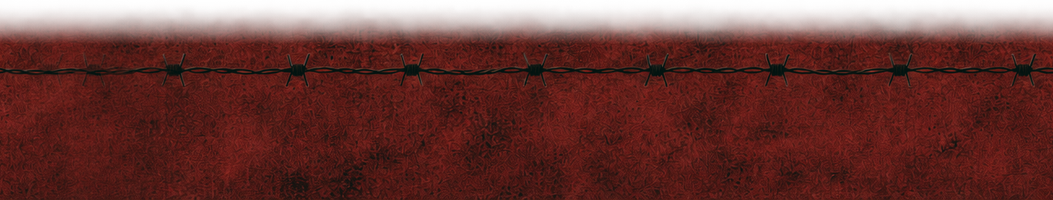
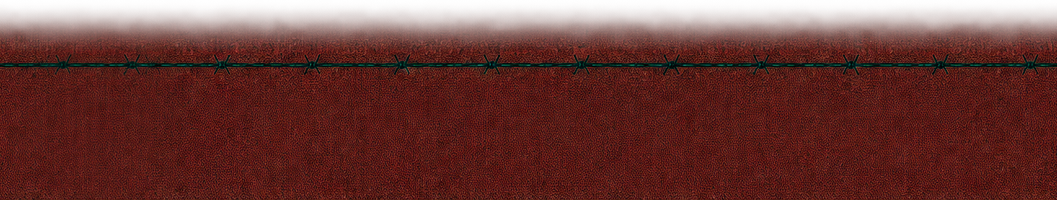
Redo Scene 01 coins and floor to match the mockup
Second Codex pass: coins now have the mockup's wide rim, dark groove,
faint center and heavy speckle, with larger blood blotches; the floor
uses fine uniform grain. Images are color-matched to the mockup and
the floor CSS filter is no longer needed. Generated sources, prompts
and the processing script live in docs/ref/images/assets/codex/.

Claude-Session: https://claude.ai/code/session_01JZURLaa2irNx7iWtkioFFh

diff --git a/docs/ref/images/assets/codex/process.py b/docs/ref/images/assets/codex/process.py
@@ -1,0 +1,94 @@
+"""Codex 생성 원본 → public/img (시안 색에 맞춤, 동전 4종씩 잘라 160px, 바닥은 이음매 없이).
+저장소 루트에서 실행: python3 docs/ref/images/assets/codex/process.py
+"""
+from PIL import Image, ImageOps
+import numpy as np
+
+G = 'docs/ref/images/assets/codex/'   # Codex 생성 원본
+O = 'public/img/'
+A = 'docs/ref/images/assets/'
+
+
+def match(arr, src_mean, dst_mean, mask):
+    """Per-channel linear gain so the masked mean moves from src_mean to dst_mean."""
+    out = arr.astype(np.float32)
+    for c in range(3):
+        out[..., c] *= dst_mean[c] / src_mean[c]
+    return np.clip(out, 0, 255)
+
+
+def masked_mean(rgb, mask):
+    return [float(rgb[..., c][mask].mean()) for c in range(3)]
+
+
+# ---- coins: 2x2 sheets -> 4 coins each, color matched to mockup coin mean (160,119,52)
+MOCK_COIN = (160, 119, 52)
+gold = np.array(Image.open(G + 'coin-gold.png').convert('RGBA'))
+gm = (gold[..., 3] > 200) & (gold[..., 0] > 90) & (gold[..., 0] > gold[..., 2] + 30)
+gain_src = masked_mean(gold[..., :3], gm)
+print('gold mean before', [round(x) for x in gain_src])
+
+for name in ('coin-gold', 'coin-blood'):
+    im = np.array(Image.open(G + '' + name + '.png').convert('RGBA'))
+    rgb = match(im[..., :3], gain_src, MOCK_COIN, None)
+    im = np.dstack([rgb.astype(np.uint8), im[..., 3]])
+    sheet = Image.fromarray(im, 'RGBA')
+    h = sheet.width // 2
+    for i, (cx, cy) in enumerate(((0, 0), (h, 0), (0, h), (h, h))):
+        if name == 'coin-blood' and i not in (0, 3):
+            continue   # 핏자국 금화는 1·4번만 쓴다 (s01.js COIN_SRC)
+        c = sheet.crop((cx, cy, cx + h, cy + h))
+        a = c.getchannel('A').point(lambda v: 255 if v > 24 else 0)
+        c = c.crop(a.getbbox())
+        s = max(c.size)
+        sq = Image.new('RGBA', (s, s))
+        sq.paste(c, ((s - c.width) // 2, (s - c.height) // 2))
+        sq.resize((160, 160), Image.LANCZOS).save('%ss01/%s-%d.png' % (O, name, i + 1), optimize=True)
+
+# ---- background: match mockup empty-area mean (21,17,16)
+bg = np.array(Image.open(G + 'bg.png').convert('RGB'))
+center = np.zeros(bg.shape[:2], bool)
+center[300:800, 1300:1500] = True
+bg = match(bg, masked_mean(bg, center), (21, 17, 16), None).astype(np.uint8)
+Image.fromarray(bg).save(O + 'bg.jpg', quality=82, optimize=True, progressive=True)
+
+# ---- floor: keep painted strip, match mockup floor mean (83,26,21) with offset for G/B, seamless tile
+f = np.array(Image.open(G + 'floor.png').convert('RGBA')).astype(np.float32)
+alpha = f[..., 3]
+rows = np.where(alpha.mean(axis=1) > 8)[0]
+top = max(0, rows.min() - 10)
+f = f[top:]
+solid = f[..., 3] > 240
+mean = [float(f[..., c][solid].mean()) for c in range(3)]
+target = (83, 26, 21)
+f[..., 0] *= target[0] / mean[0]
+f[..., 1] += target[1] - mean[1]
+f[..., 2] += target[2] - mean[2]
+f[..., :3] = np.clip(f[..., :3], 0, 255)
+fl = Image.fromarray(f.astype(np.uint8), 'RGBA')
+W, H = fl.size
+o = 240
+out = fl.crop((0, 0, W - o, H)).copy()
+mask = ImageOps.invert(Image.linear_gradient('L').rotate(90, expand=True)).resize((o, H))
+out.paste(Image.composite(fl.crop((W - o, 0, W, H)), fl.crop((0, 0, o, H)), mask), (0, 0))
+out = out.resize((out.width * 200 // H, 200), Image.LANCZOS)
+out.save(O + 'floor.png', optimize=True)
+print('floor strip', (W, H), '->', out.size)
+
+# ---- post: sharpen coins (speckle survives downscaling), boost floor grain contrast
+from PIL import ImageFilter, ImageEnhance
+import glob
+for p in glob.glob(O + 's01/coin-*.png'):
+    im = Image.open(p).convert('RGBA')
+    a = im.getchannel('A')
+    rgb = im.convert('RGB').filter(ImageFilter.UnsharpMask(radius=1.2, percent=140, threshold=1))
+    rgb = ImageEnhance.Contrast(rgb).enhance(1.15)
+    out = rgb.convert('RGBA'); out.putalpha(a); out.save(p, optimize=True)
+fl = np.array(Image.open(O + 'floor.png').convert('RGBA')).astype(np.float32)
+solid = fl[..., 3] > 200
+for c in range(3):
+    m = fl[..., c][solid].mean()
+    fl[..., c] = np.where(solid, m + (fl[..., c] - m) * 2.0, fl[..., c])
+fl[..., :3] = np.clip(fl[..., :3], 0, 255)
+Image.fromarray(fl.astype(np.uint8), 'RGBA').save(O + 'floor.png', optimize=True)
+print('post done')

diff --git a/docs/scenes/S01.md b/docs/scenes/S01.md
@@ -53,7 +53,8 @@
 
 ## 비주얼 (시안 기준)
 
-시안: `docs/ref/images/시안/` · 원본 소스 이미지(ChatGPT 생성): `docs/ref/images/assets/` → 잘라서 `public/img/`에 둔다.
+시안: `docs/ref/images/시안/` · 원본 소스 이미지: `docs/ref/images/assets/` (ChatGPT 생성) → 잘라서 `public/img/`에 둔다.
+배경 · 바닥 · 동전은 시안을 잘라 참고 이미지로 넣고 Codex CLI(ChatGPT 계정)로 다시 만들었다: 원본 · 프롬프트 · 가공 스크립트는 `docs/ref/images/assets/codex/` (`python3 docs/ref/images/assets/codex/process.py`로 `public/img/`를 다시 만든다. 시안 색에 맞추고, 동전은 선명하게, 바닥은 입자 대비를 키운다).
 
 | 요소 | 이미지 | 연결 |
 | --- | --- | --- |

diff --git a/docs/image-prompts.md b/docs/image-prompts.md
@@ -1,6 +1,7 @@
 # ChatGPT 이미지 생성 프롬프트 (SCENE 01 소스)
 
 > 생성 완료: 원본은 `docs/ref/images/assets/`, 사이트에 쓰는 가공본은 `public/img/` (연결 위치는 `docs/scenes/S01.md` 비주얼 표).
+> 배경 · 바닥 · 동전은 이후 Codex CLI로 시안에 더 가깝게 다시 만들었다: `docs/ref/images/assets/codex/prompts.sh`.
 
 시안(첨부 이미지 4장)과 같은 느낌의 **소스 이미지**를 ChatGPT로 만든다.
 완성 화면이 아니라 재료를 따로 만들어야 웹에서 움직임·반응형을 유지할 수 있다.
